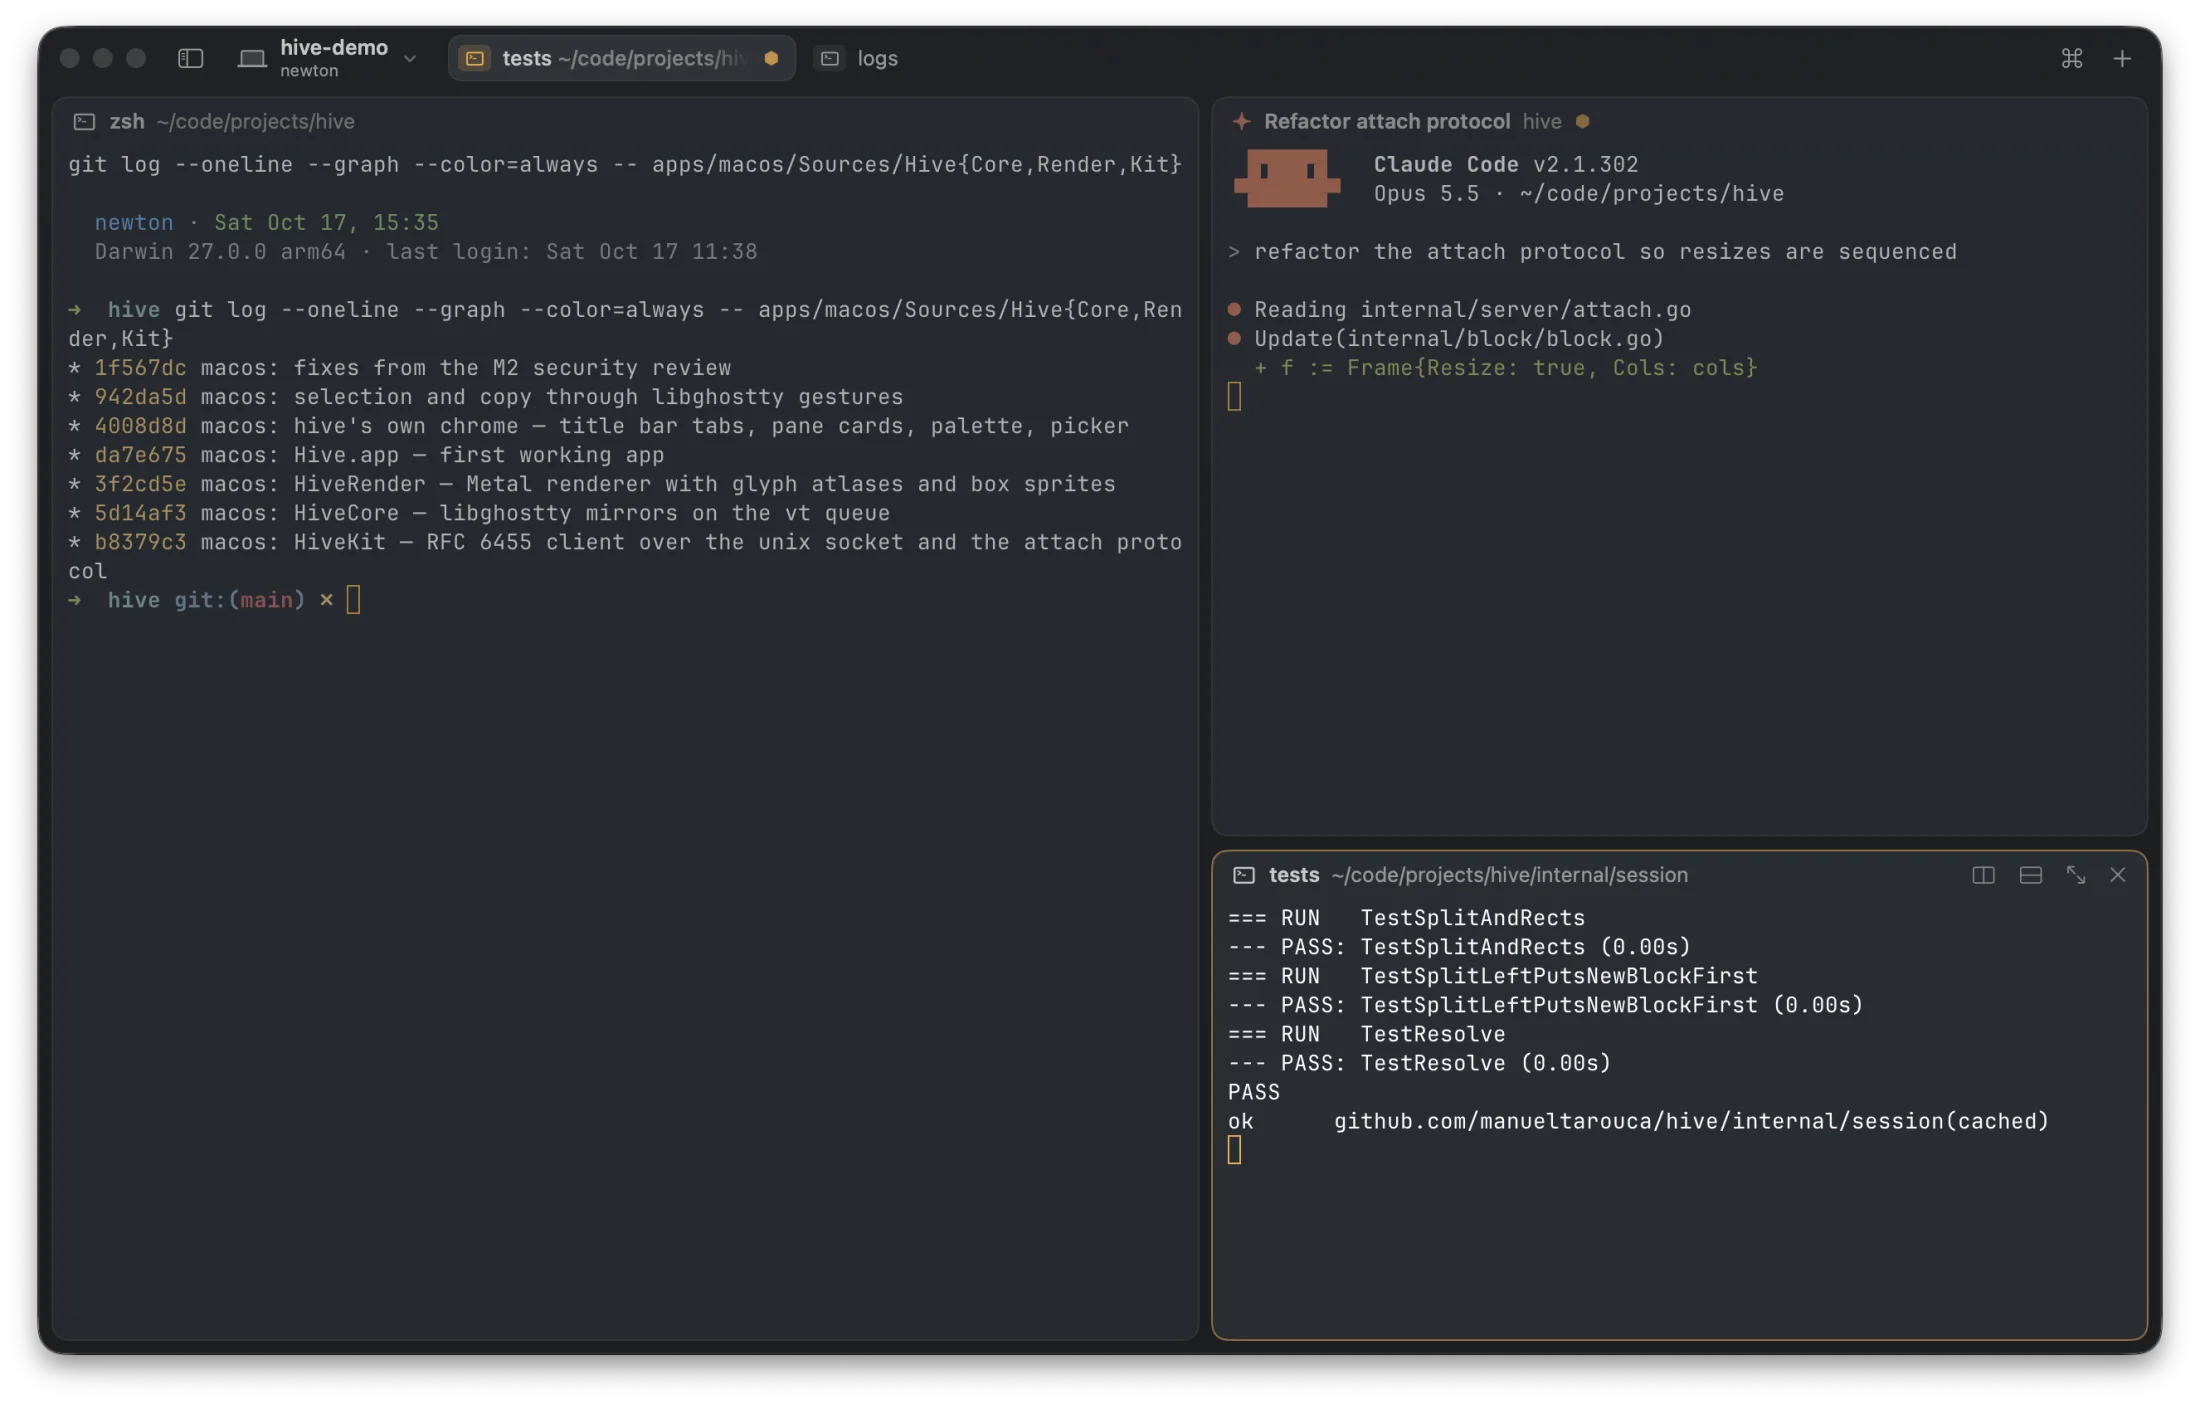
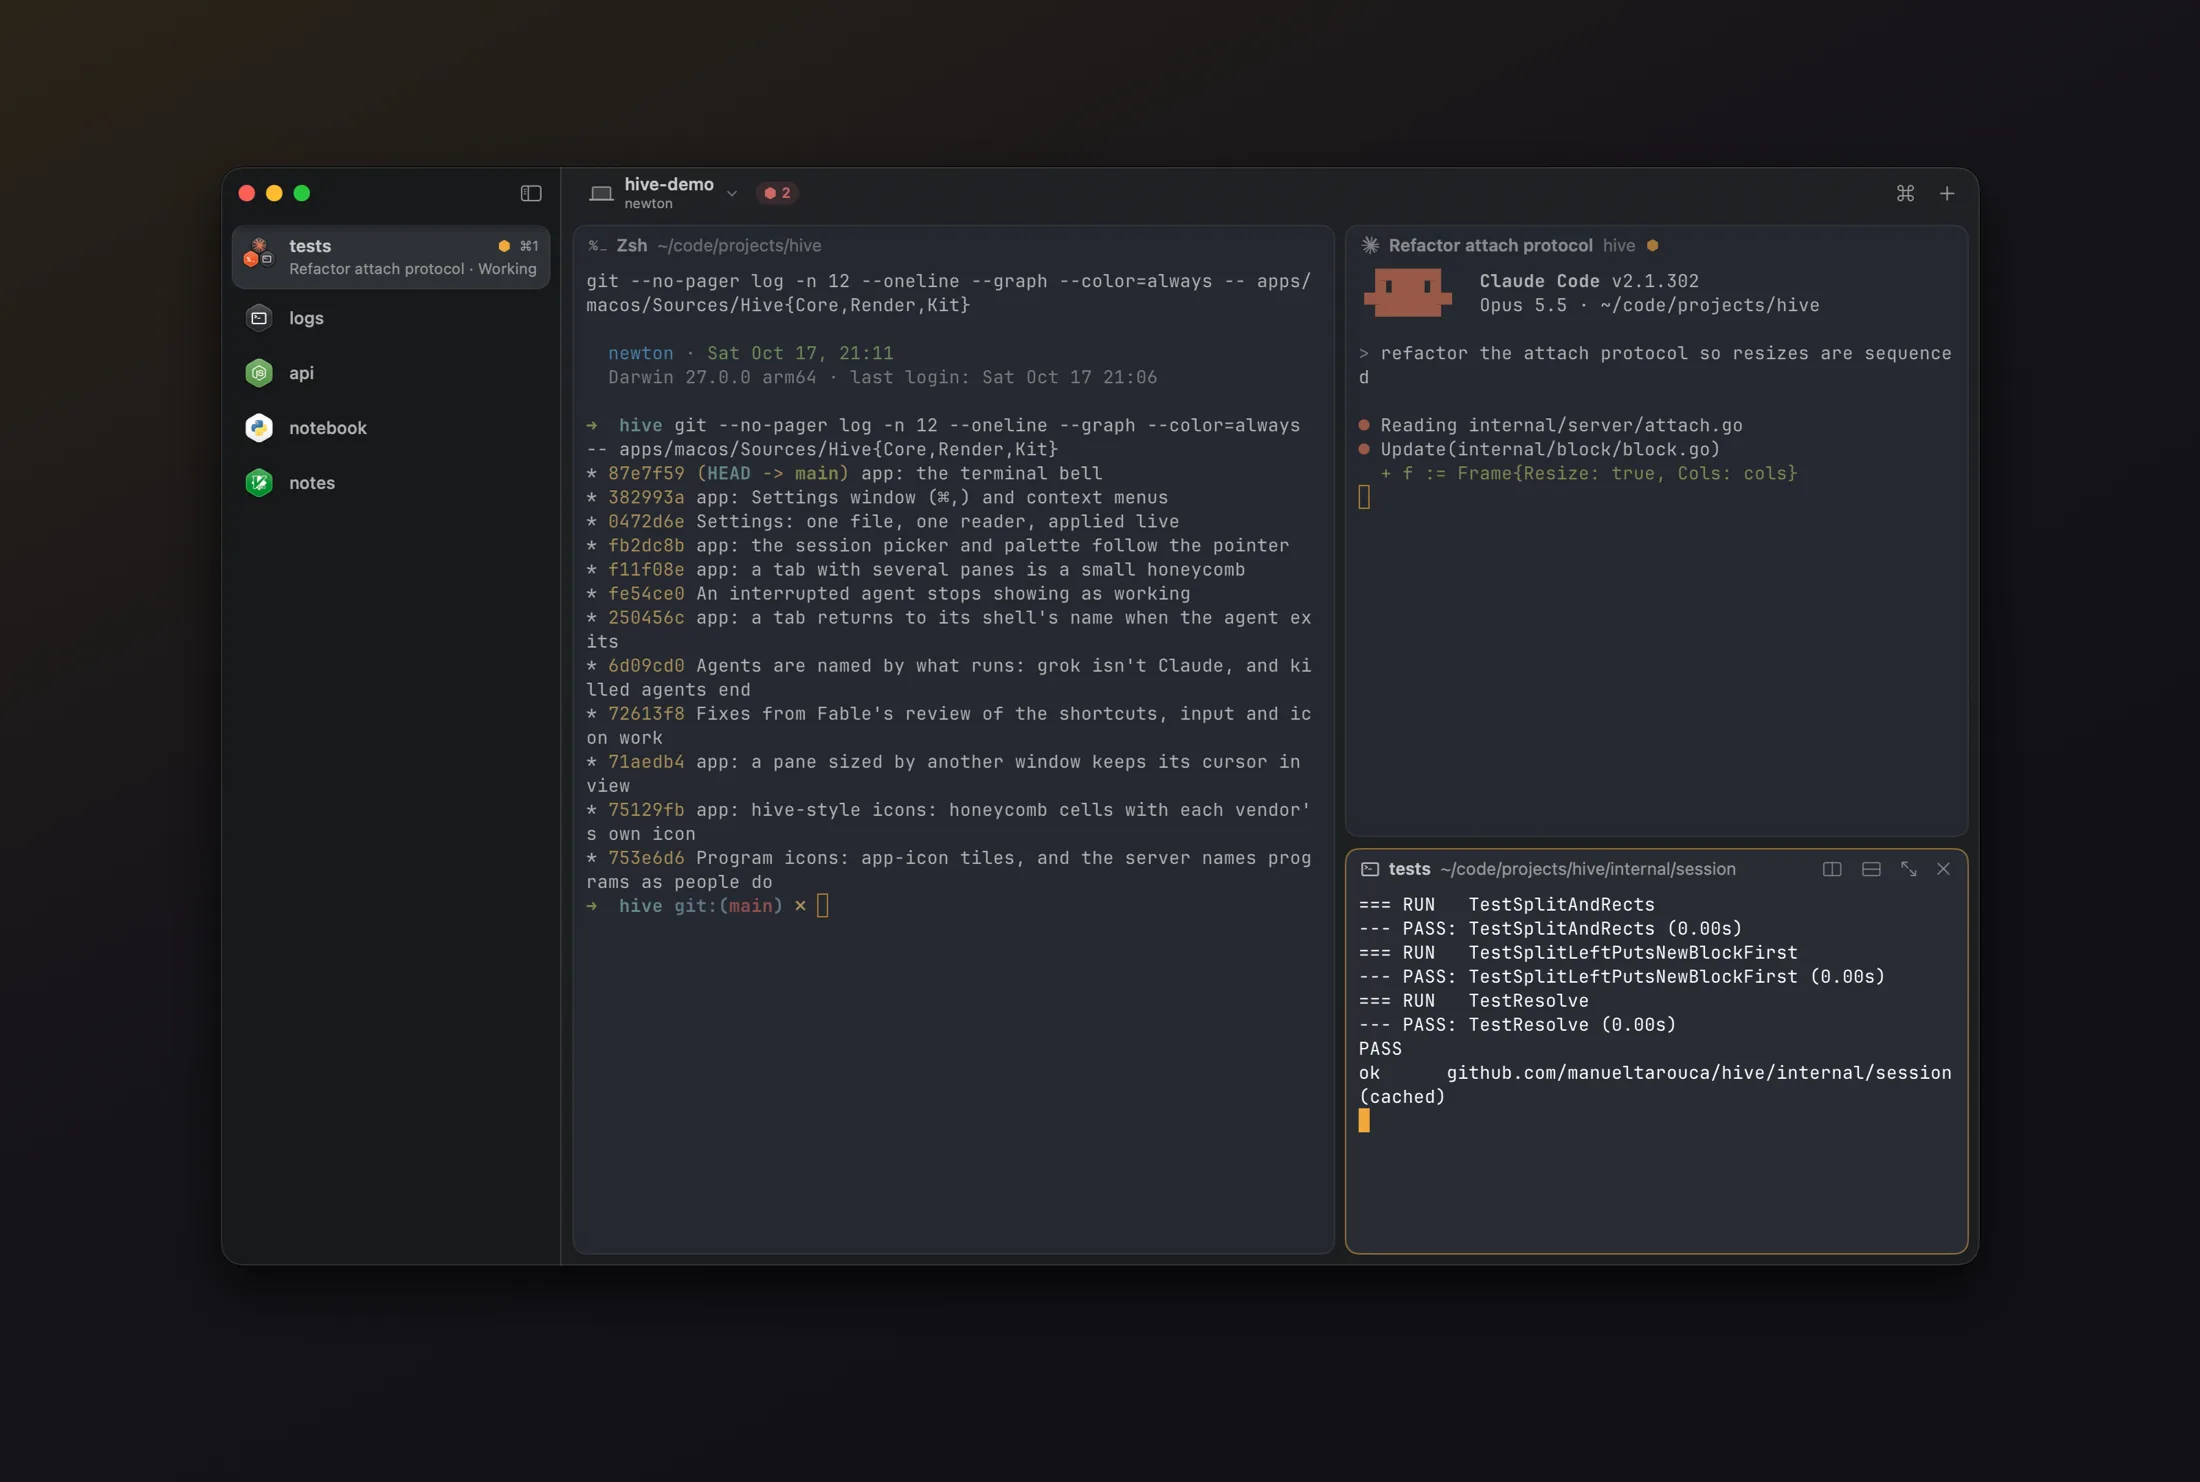
site: screenshots of the current app
The sidebar's honeycomb tabs (an agent, a Node server, a Python script,
Vim) and a split session; new alt text. The fixture's git log no longer
lands in a pager now that history is longer.

diff --git a/site/src/routes/+page.svelte b/site/src/routes/+page.svelte
@@ -102,7 +102,7 @@ make vt build
   <aside class="panel" aria-label="hive, running">
     <picture>
       <source srcset={asset('/img/window-dark.webp')} media="(prefers-color-scheme: dark)" />
-      <img src={asset('/img/window-light.webp')} alt="hive with three agents in the sidebar, one blocked on a permission prompt, and a session split into a shell, a Claude Code pane and a test run." width="2200" height="1460" />
+      <img src={asset('/img/window-light.webp')} alt="hive with its sidebar of tabs, each a honeycomb of its programs: an agent at work, a Node server, a Python script and Vim. The open tab is split into a shell, a Claude Code pane and a test run." width="2200" height="1466" />
     </picture>
   </aside>
 </div>
